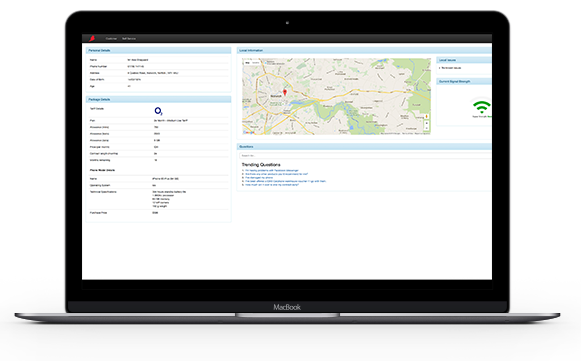
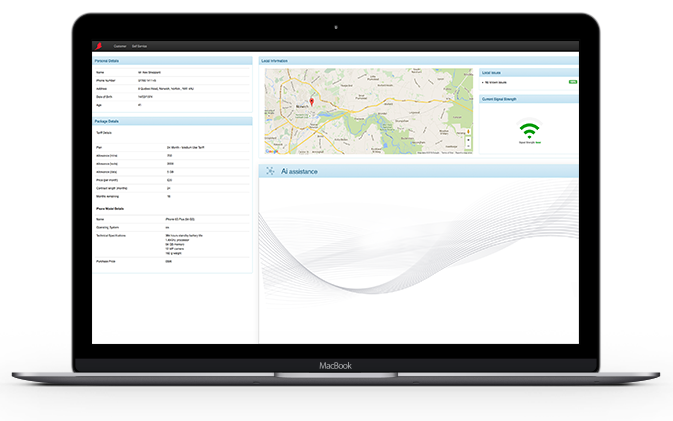
RS-14 Increased laptop image and layout changes

diff --git a/web/css/main.css b/web/css/main.css
@@ -346,6 +346,10 @@ header .logo-matter {
         list-style: none;
     }
 
+    .choices li {
+        padding-bottom: 5px;
+    }
+
 
     /* BOT CHAT SCREEN */
 
@@ -367,10 +371,14 @@ header .logo-matter {
     .bot-screen .survey {
         float: left;
         width: 150px;
-        height: 328px;
-        padding: 80px 20px 0 45px;
+        height: 338px;
+        padding: 70px 20px 0 45px;
         background-image: url('../images/phone.png');
         background-repeat: no-repeat;
+    }
+
+    .bot-screen .survey form#data {
+        margin-bottom: 5px;
     }
 
     .bot-screen .survey h3 {
@@ -382,7 +390,7 @@ header .logo-matter {
     }
 
     .bot-screen .choices {
-        font-size: .6875rem;
+        font-size: .6500rem;
         margin: 0;
         padding: 0;
         list-style: none;
@@ -464,15 +472,15 @@ header .logo-matter {
 
     /* LAPTOP SCREEN */
     .laptop-screen .section-wrapper {
-        max-width: 980px;
-        min-height: 381px;
+        max-width: 1040px;
+        min-height: 420px;
         background-image: url('../images/laptop.png');
         background-repeat: no-repeat;
     }
 
     .laptop-screen .info {
         float: right;
-        width: 470px;
+        width: 440px;
     }
 
     .laptop-screen .info h2 {
@@ -488,11 +496,47 @@ header .logo-matter {
 
     .laptop-screen .survey {
         float: left;
-        width: 270px;
-        height: 158px;
-        margin: 100px 0 0 200px;
-        padding: 10px;
-        background: #fff;
-        border: 1px solid #ccc;
+        width: 300px;
+        height: 176px;
+        margin: 168px 0 0 260px;
+        padding: 0 10px;
+        background: none;
+    }
+
+    .laptop-screen .survey form#data {
+        margin: 0;
+    }
+
+    .laptop-screen .choices {
+        font-size: .6875rem;
+    }
+
+    .laptop-screen .choices li {
+        background-color: #dec;
+        padding: 2px 5px;
+        margin: 0 10px 5px 0;
+        border-radius: 5px;
+    }
+
+    .laptop-screen .choices li input {
+        margin: 0;
+        padding: 0;
+        opacity: 0;
+        display: none;
+        float: none;
+    }
+
+    .laptop-screen .choices li.answer {
+        background-color: #bca;
+        border-radius: 5px 5px 5px 0;
+    }
+
+    .laptop-screen .survey h3 {
+        background: #ccc;
+        border-radius: 5px 5px 0 5px;
+        padding: 2px 5px;
+        margin-left: 15px;
+        line-height: 14px;
+        margin-bottom: 5px;
     }
 }
